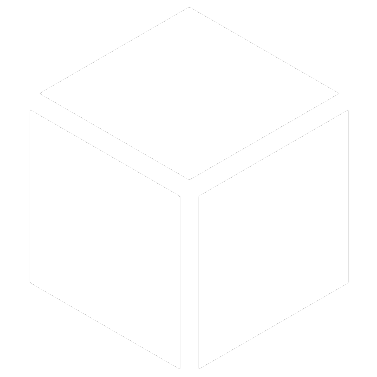
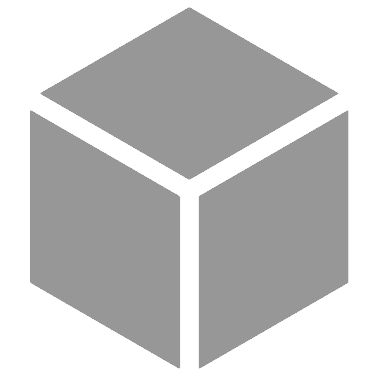
change objDetect button style

diff --git a/src/app/dashboard/page.tsx b/src/app/dashboard/page.tsx
@@ -311,12 +311,12 @@ export default function Home() {
 						<div className="button-container">
 							<div>
 								{isObjectDetectionOn && (
-									<button className="od-button" onClick={handleObjectDetection}>
+									<button className="od-button-on" onClick={handleObjectDetection}>
 										<img src="/objDetectOn.png" alt="objDetectOn Icon" width="50" height="50" />
 									</button>
 								)}
 								{!isObjectDetectionOn && (
-									<button className="od-button" onClick={handleObjectDetection}>
+									<button className="od-button-off" onClick={handleObjectDetection}>
 										<img src="/objDetectOff.png" alt="objDetectOff Icon" width="50" height="50" />
 									</button>
 								)}

diff --git a/src/app/dashboard/dashboardPage.css b/src/app/dashboard/dashboardPage.css
@@ -292,12 +292,24 @@
     flex-direction: row;
 }
 
-.od-button {
+.od-button-on {
     width: 222.5px;
     height: 101px;
     margin-right: 10.5px;
     background-color: rgb(23,165,211);
     border: none;
+    border-radius: 10px;
+    display: grid;
+    place-items: center;
+}
+
+.od-button-off {
+    width: 222.5px;
+    height: 101px;
+    margin-right: 10.5px;
+    background-color: rgb(255, 255, 255);
+    border-color: rgb(151,151,151);
+    border-width: 2px;
     border-radius: 10px;
     display: grid;
     place-items: center;
